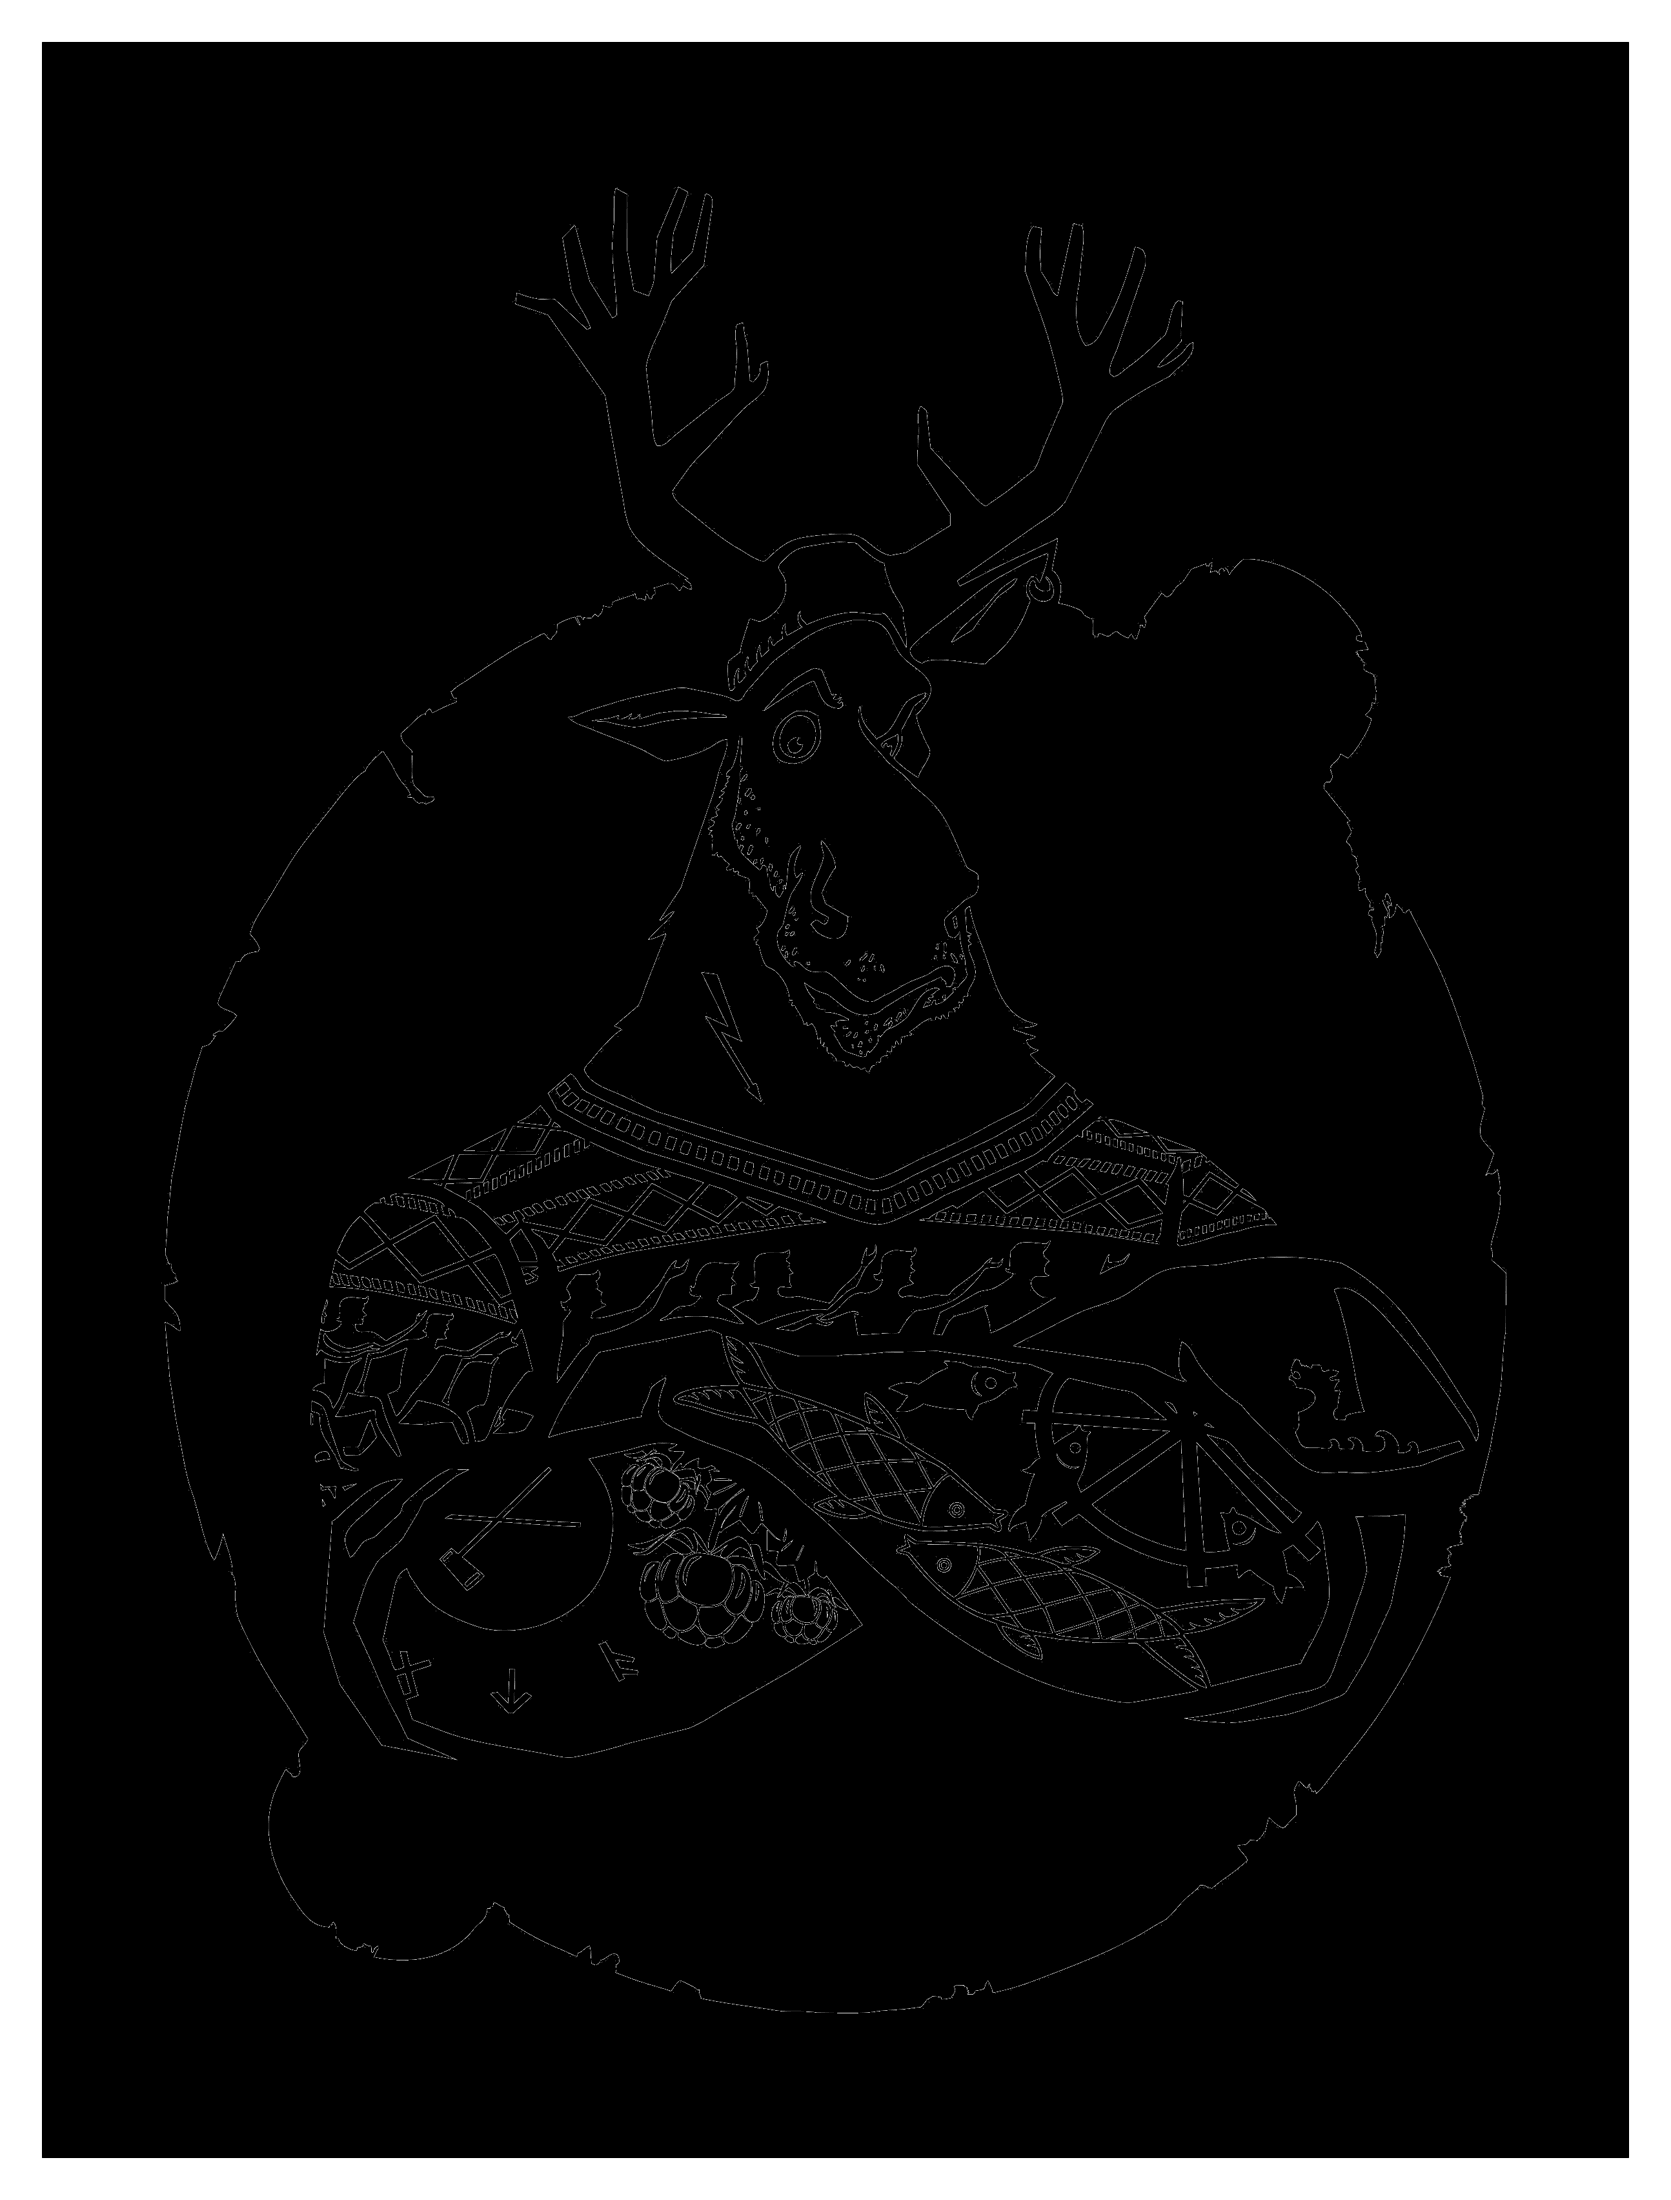
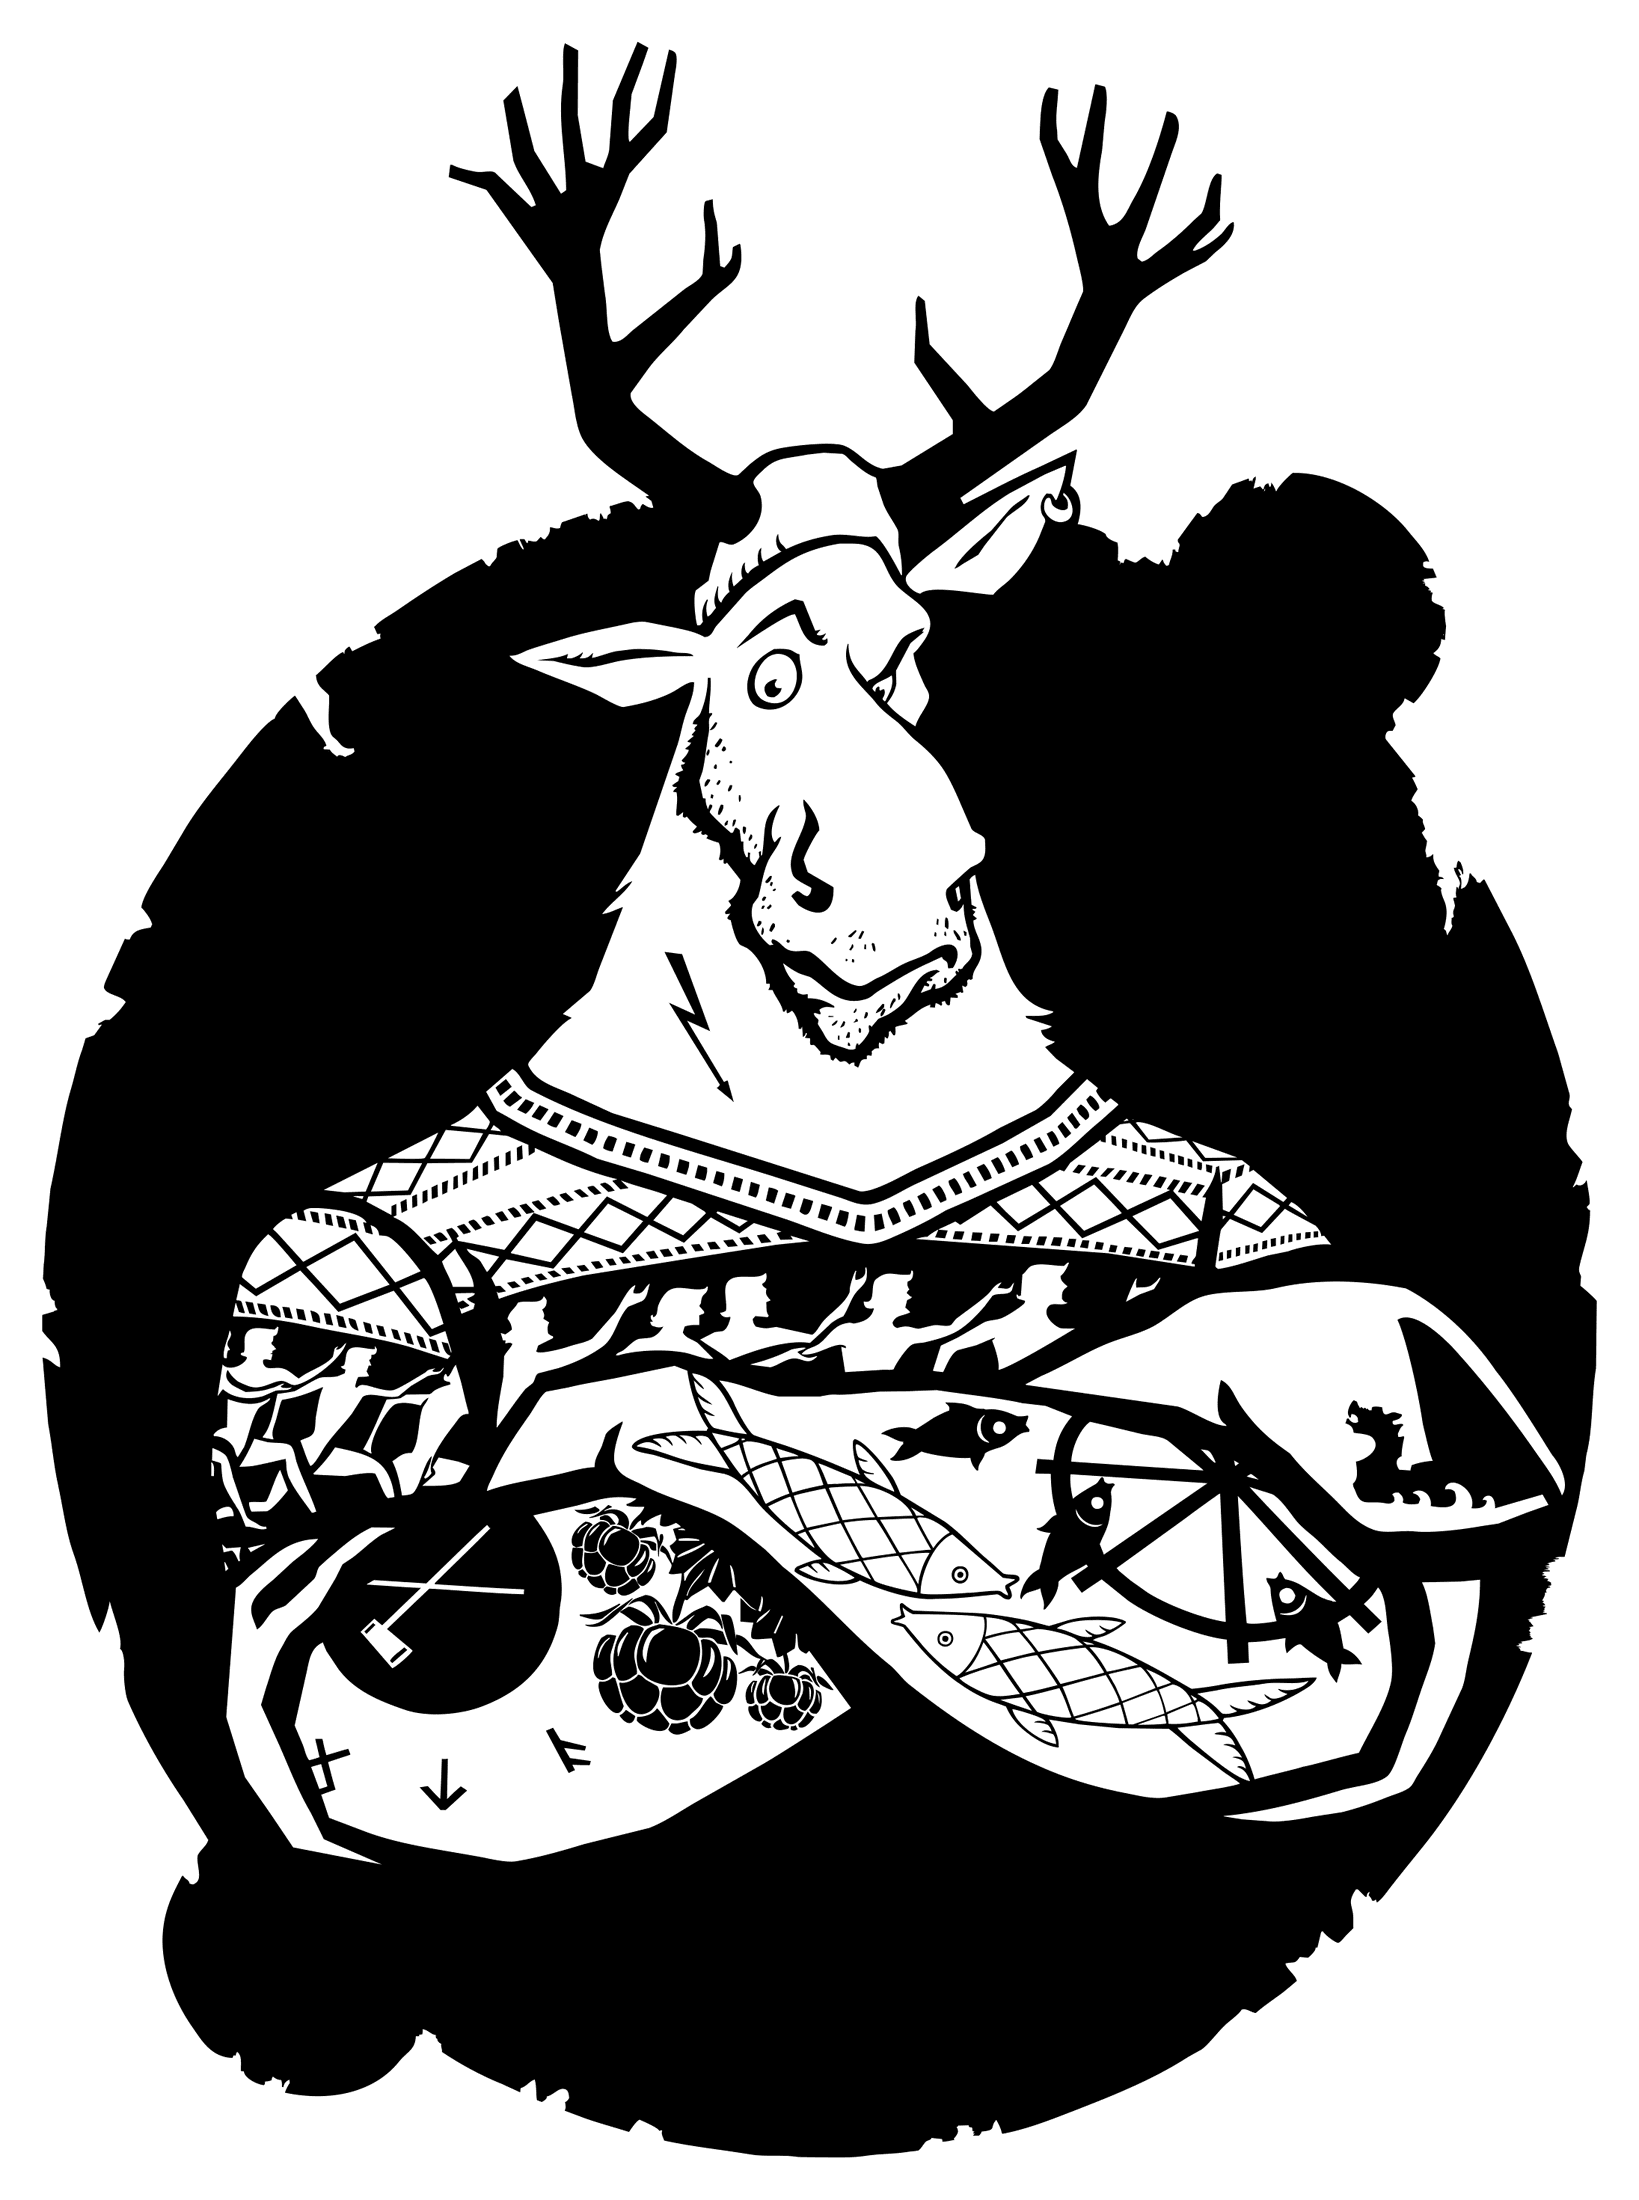
Branding gallery: fix black backgrounds (composite source alpha onto white before cutting), tighter rows
Claude-Session: https://claude.ai/code/session_01V6eJu1dSzFvvUSE1CfbGv7

diff --git a/src/app/branding/branding.css b/src/app/branding/branding.css
@@ -22,12 +22,12 @@
   }
   /* Every row after the first overlaps the previous one by a third of the
      screen; the pictures themselves overlap horizontally too. */
-  .br-gallery .drift { margin-top: -34vh; width: 150%; }
+  .br-gallery .drift { margin-top: -50vh; width: 150%; }
   .br-gallery .drift:nth-child(-n + 2) { margin-top: 0; }
   .br-gallery .drift:nth-child(2n + 1) { margin-left: -30%; }
   .br-gallery .drift:nth-child(2n)     { margin-right: -30%; }
-  .br-gallery .drift:nth-child(4n + 1) { margin-top: -30vh; }
-  .br-gallery .drift:nth-child(4n)     { margin-top: -40vh; }
+  .br-gallery .drift:nth-child(4n + 1) { margin-top: -46vh; }
+  .br-gallery .drift:nth-child(4n)     { margin-top: -56vh; }
 }
 /* Less white above the gallery on desktop: tighter page head and padding. */
 @media (min-width: 601px) {
@@ -46,7 +46,7 @@
 @media (max-width: 600px) {
   .br-gallery {
     grid-template-columns: 1fr;
-    row-gap: 10vh;
+    row-gap: 2vh;
   }
   /* Phones: at rest (middle of the screen) the picture fits the screen and is
      fully visible; the scroll-driven scale enlarges it before and after, and
@@ -73,7 +73,7 @@
 }
 @media (max-width: 600px) {
   .br-gallery {
-    padding: 6vh 0 24vh;
+    padding: 4vh 0 16vh;
   }
 }
 @media (prefers-reduced-motion: reduce) {
